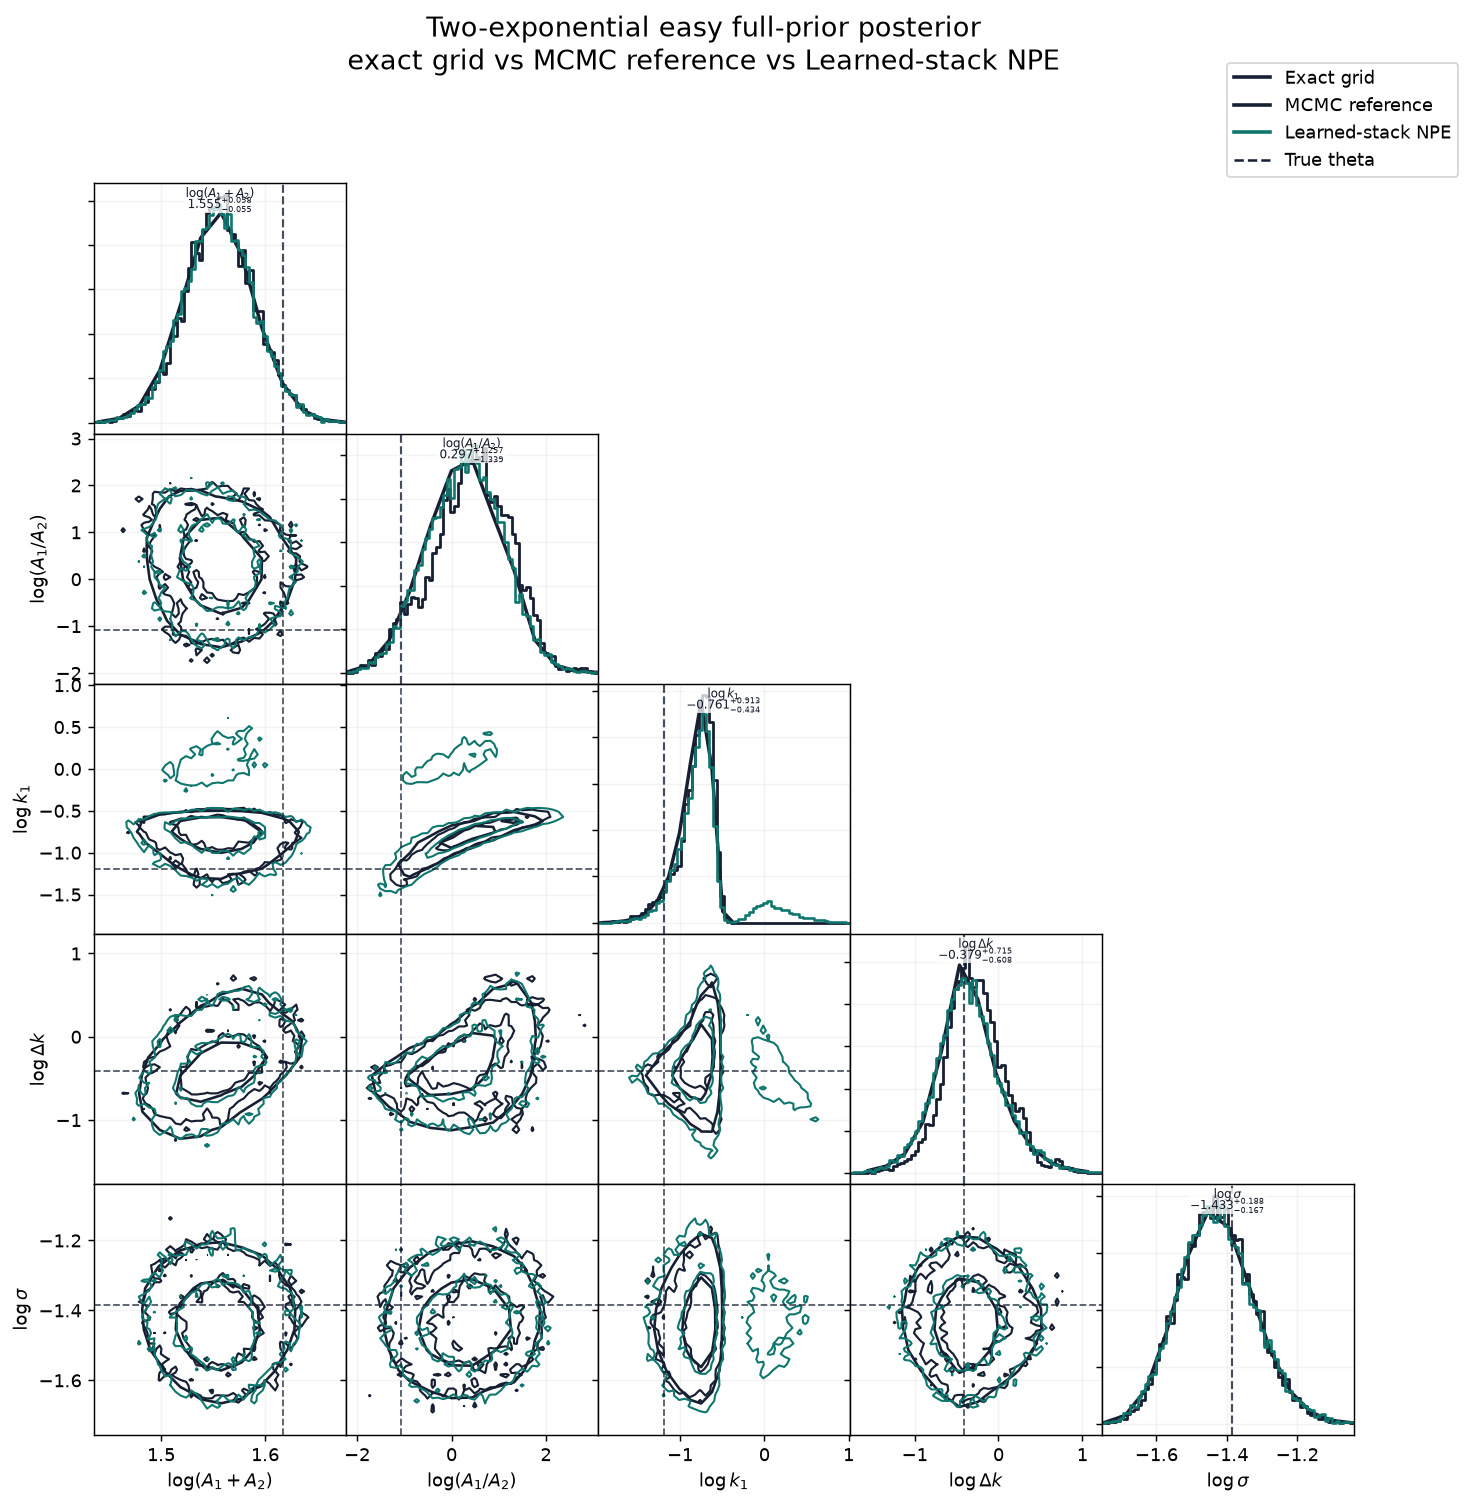
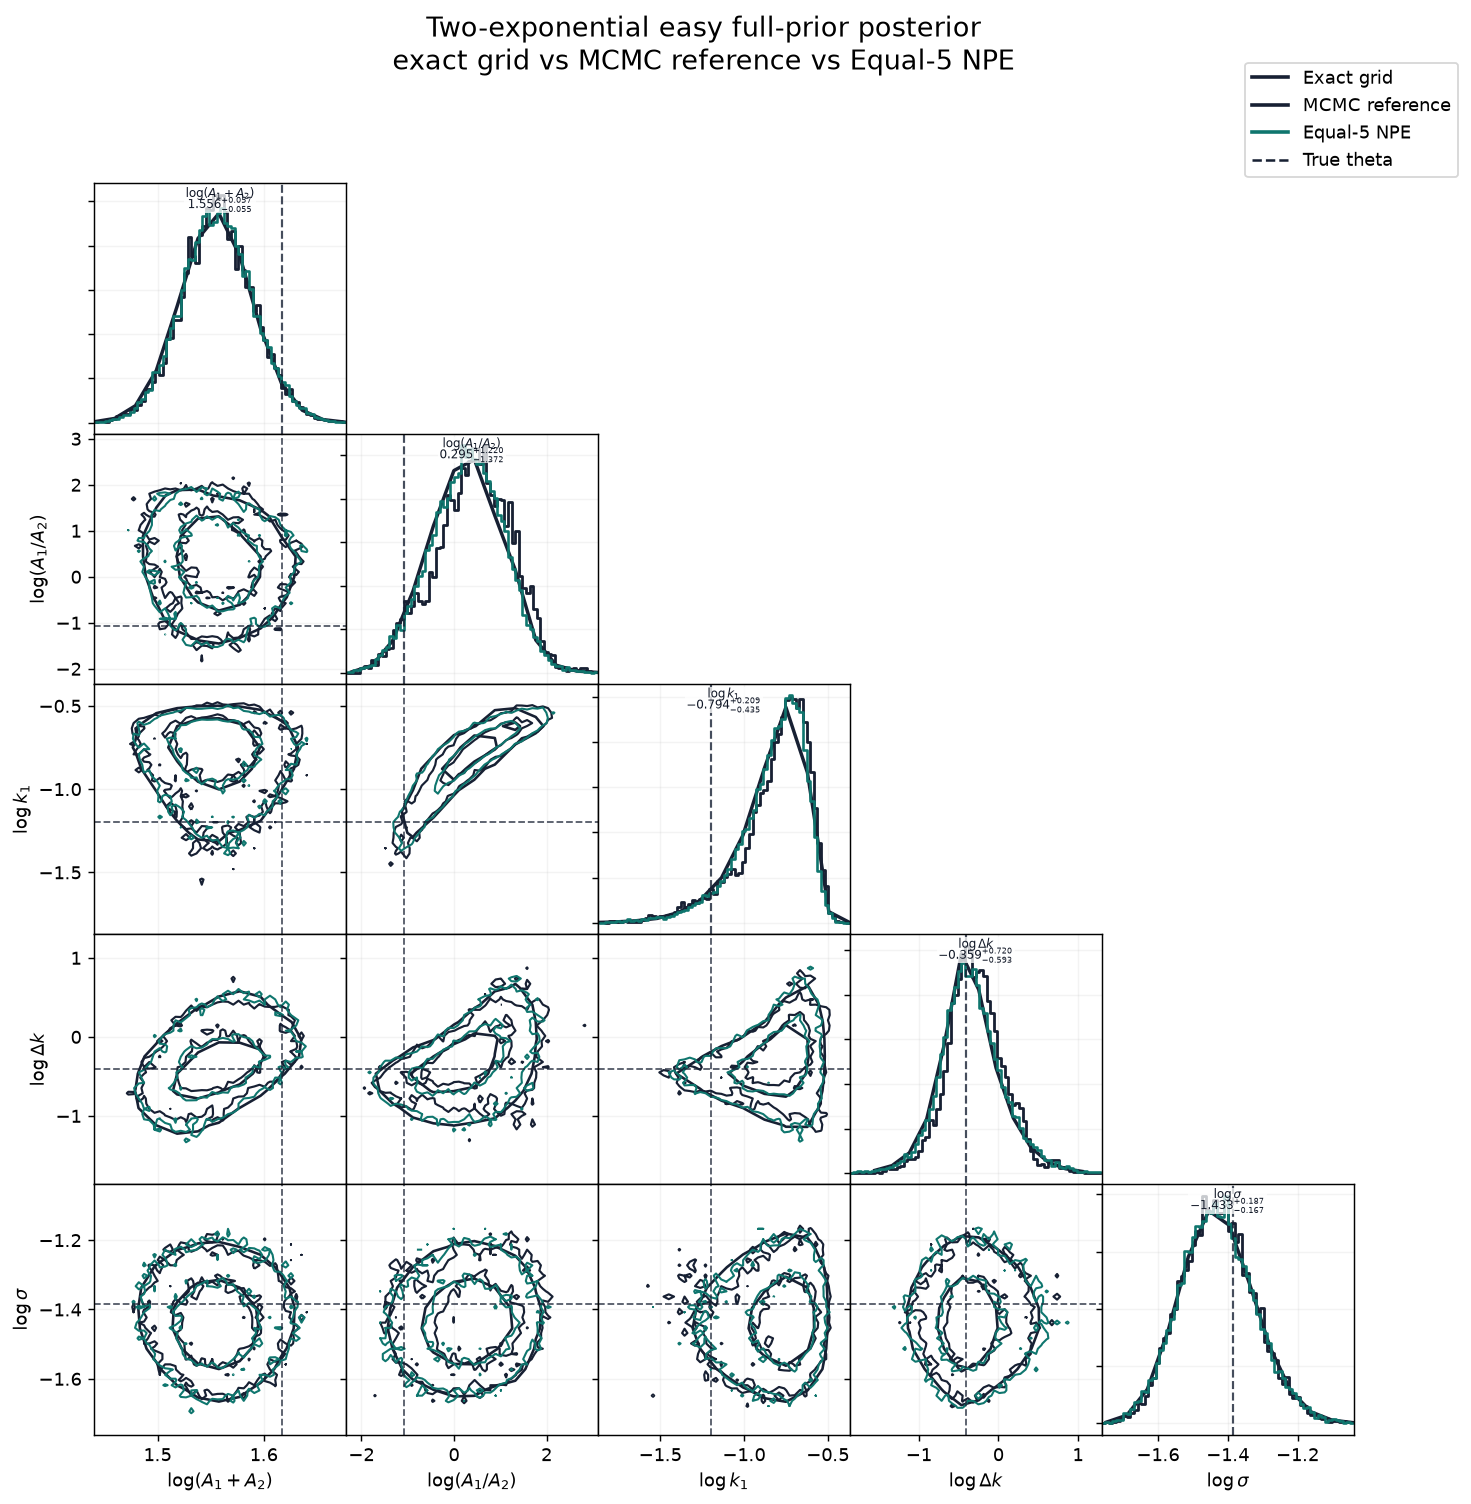
Use equal5 for two-exp posterior diagnostics

diff --git a/scripts/render_decay_readme_posteriors.py b/scripts/render_decay_readme_posteriors.py
@@ -1748,8 +1748,8 @@ def render_two_exp_population_cases(args: argparse.Namespace) -> None:
     summary_path = TWO_EXP_OUTPUT_DIR / "two_exp_best_nll_posterior_summary.json"
     summary = {
         "description": (
-            "Two representative full-prior posterior checks for the current "
-            f"best held-out-NLL two-exponential population NPE, {model_description}."
+            "Two representative full-prior posterior checks for the selected "
+            f"two-exponential population NPE, {model_description}."
         ),
         "ensemble_summary": repo_relative(model_summary_path),
         "posterior_model": str(args.two_exp_posterior_model),
@@ -1795,7 +1795,7 @@ def parse_args() -> argparse.Namespace:
     parser.add_argument(
         "--two-exp-posterior-model",
         choices=("learned_stack", "equal5"),
-        default="learned_stack",
+        default="equal5",
     )
     parser.add_argument("--signal-seed", type=int, default=20260707)
     parser.add_argument("--draw-index", type=int, default=1)

diff --git a/README.md b/README.md
@@ -972,17 +972,21 @@ The validation-selected 1.024M-per-member ensemble reached a paired gap of
 the current best held-out NLL, but its paired gap is still `0.07470 +/- 0.00394`,
 so it is not a floor-level result either.
 
-Posterior-shape diagnostics below use the learned x-dependent stack, the current
-best held-out-NLL model, not the old fixed-signal artifact. The easy case is an
-ordinary full-prior prior-predictive draw. The difficult case follows the
-single-decay convention: a low-prior-density stress draw, here `4.27` prior
-standard deviations from the raw prior mean with log prior density `9.125` below
-the prior mean. Because this posterior is five-dimensional, the diagnostic
-overlay uses an exact local 5D grid as the primary visual reference and keeps
-the MCMC chain as a sampler sanity check. The learned-stack NPE mean normalized
-marginal Wasserstein distance to the exact grid is `0.2456` on the easy case and
-`0.1601` on the difficult case; the grid edge mass is `0.0102` and `0.0266`,
-respectively.
+Posterior-shape diagnostics below use the equal-5 mixture, not the old
+fixed-signal artifact and not the learned stack. The learned stack has the best
+held-out NLL, but it produces a visibly worse easy-case posterior shape here:
+its NPE-to-grid mean normalized marginal Wasserstein distances are `0.2456`
+on the easy case and `0.1601` on the difficult case, versus `0.1488` and
+`0.1631` for equal-5. The equal-5 mixture therefore has the better aggregate
+grid agreement on these README diagnostics (`0.1560` mean versus `0.2029`) and
+is the plotted posterior-shape model. The easy case is an ordinary full-prior
+prior-predictive draw. The difficult case follows the single-decay convention:
+a low-prior-density stress draw, here `4.27` prior standard deviations from the
+raw prior mean with log prior density `9.125` below the prior mean. Because this
+posterior is five-dimensional, the diagnostic overlay uses an exact local 5D
+grid as the primary visual reference and keeps the MCMC chain as a sampler
+sanity check. The grid edge mass is `0.0102` on the easy case and `0.0266` on
+the difficult case.
 
 ![Two-exponential easy full-prior posterior overlay](runs/00_shared_assets/readme_two_exp_posteriors/two_exp_best_nll_easy_posterior_corner.png)
 